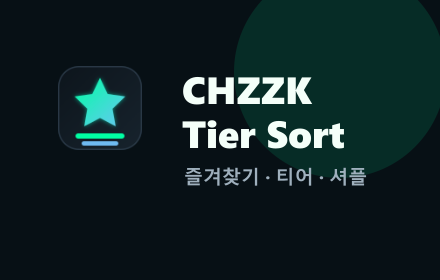
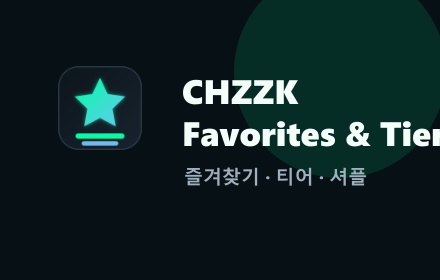
Harden Chrome popup and LNB tier sorting

Changed region(s): [[0.4136, 0.4286, 1.0, 0.5429], [0.4136, 0.2571, 0.7091, 0.3714]]

diff --git a/js/shuffle.js b/js/shuffle.js
@@ -444,7 +444,7 @@ class ShuffleManager {
         this.findChannelsList();
 
       const list = foundList;
-      const allChannelItems = providedItems || this.findChannelItems(list || document);
+      const allChannelItems = providedItems || (list ? this.getSortableChannelItems(list) : this.findChannelItems(document));
 
       window.ChzzkLogger?.info(`🎯 [SHUFFLE] Parameters: list=${!!list}, items=${allChannelItems?.length || 0}, mutationLock=${this.mutationLock}`);
 
@@ -769,7 +769,7 @@ class ShuffleManager {
       window.ChzzkLogger?.shuffle(`🔄 Progressive shuffle: adding ${newChannels.length} new channels`);
 
       // 현재 DOM에 있는 모든 채널 가져오기
-      const currentChannels = this.findChannelItems(list);
+      const currentChannels = this.getSortableChannelItems(list);
       const channelContainers = this.prepareContainers(currentChannels);
 
       // 라이브/오프라인 분리
@@ -888,7 +888,7 @@ class ShuffleManager {
       const { list } = this.findChannelsList();
       if (!list) return;
 
-      const allChannelItems = this.findChannelItems(list);
+      const allChannelItems = this.getSortableChannelItems(list);
       if (allChannelItems.length === 0) return;
 
       const channelContainers = this.prepareContainers(allChannelItems);
@@ -941,11 +941,12 @@ class ShuffleManager {
   getChannelSnapshot() {
     try {
       const { list } = this.findChannelsList();
-      let items = this.findChannelItems(list || document);
+      let items = list ? this.getSortableChannelItems(list) : this.findChannelItems(document);
 
       if (!items.length && window.ChzzkDom?.findChannelsList) {
         const fallback = window.ChzzkDom.findChannelsList(document);
-        items = fallback.items || [];
+        items = fallback.list ? this.getSortableChannelItems(fallback.list) : (fallback.items || []);
+        if (!items.length) items = fallback.items || [];
       }
 
       const seen = new Set();
@@ -998,11 +999,12 @@ class ShuffleManager {
       let { list } = this.findChannelsList();
       if (!list) return false;
 
-      let items = this.findChannelItems(list);
+      let items = this.getSortableChannelItems(list);
       if (!items.length && window.ChzzkDom?.findChannelsList) {
         const fallback = window.ChzzkDom.findChannelsList(document);
         list = fallback.list;
-        items = fallback.items || [];
+        items = fallback.list ? this.getSortableChannelItems(fallback.list) : (fallback.items || []);
+        if (!items.length) items = fallback.items || [];
       }
       if (!items.length) return false;
 
@@ -1164,7 +1166,7 @@ class ShuffleManager {
         return null;
       }
 
-      const currentChannels = this.findChannelItems(list);
+      const currentChannels = this.getSortableChannelItems(list);
       if (currentChannels.length === 0) {
         window.ChzzkLogger?.warn('⚠ [STATE] No channels found for state capture');
         return null;
@@ -1222,7 +1224,7 @@ class ShuffleManager {
         return false;
       }
 
-      const currentChannels = this.findChannelItems(list);
+      const currentChannels = this.getSortableChannelItems(list);
       if (currentChannels.length === 0) {
         window.ChzzkLogger?.warn('⚠ [STATE] No current channels found for state restoration');
         return false;
@@ -1278,6 +1280,11 @@ class ShuffleManager {
           matchedCount++;
         }
       });
+
+      if (matchedCount < state.channelOrder.length) {
+        window.ChzzkLogger?.warn(`⚠ [STATE] Restore skipped: only ${matchedCount}/${state.channelOrder.length} saved channels matched`);
+        return false;
+      }
 
       // 매칭되지 않은 새 채널들은 끝에 추가
       channelMap.forEach(unmatchedChannel => {
@@ -1529,6 +1536,21 @@ class ShuffleManager {
     return Array.from(list.children).filter(child =>
       !!child.querySelector?.('a[href*="/live/"], a[href*="/channel/"]')
     );
+  }
+
+  /**
+   * DOM 재정렬에 안전한 채널 항목만 반환한다.
+   * CHZZK 내부 마크업이 바뀌어 nested navigator/card 요소가 먼저 잡히면
+   * canSafelyReorder()가 직접 자식 수 불일치로 정렬을 거부한다. 실제 이동
+   * 단위는 항상 리스트의 직접 자식 li여야 한다.
+   * @private
+   * @param {Element} list
+   * @returns {Array<Element>}
+   */
+  getSortableChannelItems(list) {
+    const directChildren = this.getDirectChannelChildren(list);
+    if (directChildren.length > 0) return directChildren;
+    return this.findChannelItems(list || document);
   }
 
   /**

diff --git a/tests/lnb-reorder-guard.test.js b/tests/lnb-reorder-guard.test.js
@@ -55,6 +55,16 @@ class FakeElement {
     });
     return result;
   }
+
+  closest(selector) {
+    if (selector !== 'li') return null;
+    let current = this;
+    while (current) {
+      if (current.tagName === 'LI') return current;
+      current = current.parentElement;
+    }
+    return null;
+  }
 }
 
 class FakeFragment {
@@ -198,10 +208,52 @@ assert.equal(shuffle.restoreShuffleState(restoreState), true);
 assert.deepEqual(list.children, [header, alpha, beta, gamma]);
 
 const beforeUnsafeRestore = [...list.children];
-shuffle.findChannelsList = () => ({ list, items: [alpha, beta] });
+const incompleteList = new FakeElement('ul', '_list_incomplete');
+body.appendChild(incompleteList);
+const incompleteHeader = incompleteList.appendChild(new FakeElement('li', '_header'));
+const incompleteAlpha = incompleteList.appendChild(channelLi('alpha'));
+const incompleteBeta = incompleteList.appendChild(channelLi('beta'));
+shuffle.findChannelsList = () => ({ list: incompleteList, items: [incompleteAlpha, incompleteBeta] });
 shuffle.findChannelItems = () => [alpha, beta];
 assert.equal(shuffle.restoreShuffleState(restoreState), false);
 assert.deepEqual(list.children, beforeUnsafeRestore);
 assert.equal(list.children.length, 4);
+assert.deepEqual(incompleteList.children, [incompleteHeader, incompleteAlpha, incompleteBeta]);
+
+const directList = new FakeElement('ul', '_list_direct');
+body.appendChild(directList);
+const directHeader = directList.appendChild(new FakeElement('li', '_header'));
+const directAlpha = directList.appendChild(channelLi('direct-alpha'));
+const directBeta = directList.appendChild(channelLi('direct-beta'));
+const directGamma = directList.appendChild(channelLi('direct-gamma'));
+const nestedAnchors = [directAlpha, directBeta, directGamma].map(item => item.querySelector('a[href*="/live/"], a[href*="/channel/"]'));
+
+global.window.ChzzkPlatform = null;
+global.window.ChzzkFavoriteTierStore = {
+  state: {
+    starred: ['direct-gamma'],
+    tiers: [],
+    assignments: {},
+    tierOrder: {}
+  }
+};
+global.window.ChzzkStar = {
+  isStarred: id => id === 'direct-gamma',
+  extractChannelId: element => {
+    const link = element.querySelector?.('a[href*="/live/"], a[href*="/channel/"]') || (element.tagName === 'A' ? element : null);
+    return link?.href?.split('/').pop() || '';
+  }
+};
+global.window.ChzzkDom = {
+  extractChannel: element => {
+    const link = element.querySelector?.('a[href*="/live/"], a[href*="/channel/"]') || (element.tagName === 'A' ? element : null);
+    const id = link?.href?.split('/').pop() || '';
+    return id ? { id } : null;
+  }
+};
+shuffle.findChannelsList = () => ({ list: directList, items: nestedAnchors });
+shuffle.findChannelItems = () => nestedAnchors;
+assert.equal(shuffle.applyTierSort({ shuffleWithinTiers: false }), true);
+assert.deepEqual(directList.children, [directHeader, directGamma, directAlpha, directBeta]);
 
 console.log('lnb reorder guard passed');

diff --git a/tests/chrome-only-scope.test.js b/tests/chrome-only-scope.test.js
@@ -22,8 +22,8 @@ assert.equal(packageJson.scripts['qa:main:chrome:start'], undefined, 'Do not lau
 assert.equal(packageJson.scripts['qa:main:chrome:plan'], undefined, 'Do not present a separate Chrome profile launch plan as real-use QA');
 assert.match(packageJson.description, /Chrome\./, 'Package description should name Chrome as the product browser');
 assert.doesNotMatch(packageJson.description, /Whale|NAVER Whale/i, 'Package description must not advertise Whale as a supported product');
-assert.equal(manifest.name, 'CHZZK Favorite Tiers', 'Extension name should describe favorite/tier management, not only shuffling');
-assert.equal(manifest.action?.default_title, 'CHZZK Favorite Tiers', 'Chrome toolbar title should match the extension name');
+assert.equal(manifest.name, 'CHZZK Favorites & Tiers', 'Extension name should describe favorite/tier management, not only shuffling');
+assert.equal(manifest.action?.default_title, 'CHZZK Favorites & Tiers', 'Chrome toolbar title should match the extension name');
 
 assert.match(readme, /Chrome-only/i, 'README should state the Chrome-only product scope');
 assert.doesNotMatch(readme, /build:whale|qa:whale:isolated|qa:main:whale|dist\/whale|Whale Store/i, 'README must not instruct managers to build, QA, or release Whale');
@@ -57,5 +57,8 @@ assert.doesNotMatch(storeAssetGenerator, /whale|Whale|WHALE/, 'Store asset gener
 assert.match(storeAssetGenerator, /03-tier-manager\.png/, 'Chrome store screenshots should show in-popup tier management, not Whale sidebar');
 assert.doesNotMatch(mainChromePopupQa, /direct-popup-url-fallback|Target\.createTarget|popup\.html`\s*\}/, 'Main Chrome popup QA must not substitute direct popup URL for the extension action');
 assert.match(mainChromePopupQa, /Real extension action popup did not open/, 'Main Chrome popup QA should fail clearly when the real action popup cannot be opened');
+assert.match(mainChromePopupQa, /requireCdpReady/, 'Main Chrome popup QA should verify the CDP endpoint before claiming main-browser evidence');
+assert.match(mainChromePopupQa, /mainBrowserEvidence:\s*popupOpened/, 'Main Chrome popup QA failures before action.openPopup must not claim main-browser evidence');
+assert.match(mainChromePopupQa, /MAIN_CHROME_POPUP_UNVERIFIED/, 'Main Chrome popup QA should classify pre-popup failures as unverified, not real-use failures');
 
 console.log('chrome-only product scope regression passed');

diff --git a/popup.js b/popup.js
@@ -35,9 +35,17 @@ let isWorking = false;
 document.addEventListener('DOMContentLoaded', async () => {
   browserBadge.textContent = 'Chrome';
   versionText.textContent = `v${platform.runtime?.getManifest?.().version || ''}`;
-  await loadSettings();
-  await hydrateActiveTab();
   setupEvents();
+  try {
+    await loadSettings();
+    await hydrateActiveTab();
+  } catch (error) {
+    setButtonsEnabled(false);
+    setStatus(platform?.isContextInvalidatedError?.(error)
+      ? '확장이 갱신되었습니다. 치지직 탭을 새로고침해 주세요.'
+      : '팝업을 초기화하지 못했습니다. 새로고침을 눌러 다시 연결하세요.');
+    window.ChzzkLogger?.warn?.('[POPUP] Initialization failed', error);
+  }
 });
 
 async function loadSettings() {

diff --git a/tests/popup-a11y.test.js b/tests/popup-a11y.test.js
@@ -95,4 +95,16 @@ assert.match(
   'Popup disabled buttons should expose their reason through the accessible label'
 );
 
+assert.match(
+  popupJs,
+  /setupEvents\(\);\s*try\s*\{[\s\S]*await loadSettings\(\);[\s\S]*await hydrateActiveTab\(\);/,
+  'Popup controls should be bound before async tab/storage hydration can fail'
+);
+
+assert.match(
+  popupJs,
+  /팝업을 초기화하지 못했습니다/,
+  'Popup initialization failures should render a visible recovery status instead of leaving a blank popup'
+);
+
 console.log('popup accessibility regression passed');

diff --git a/popup.html b/popup.html
@@ -2,7 +2,7 @@
 <html lang="ko">
 <head>
   <meta charset="UTF-8">
-  <title>CHZZK Favorite Tiers</title>
+  <title>CHZZK Favorites & Tiers</title>
   <style>
     :root {
       --bg: #0a0f14;
@@ -391,7 +391,7 @@
   <main class="shell screen" id="homeScreen">
     <header class="top">
       <div class="title">
-        <h1>CHZZK Favorite Tiers</h1>
+        <h1>CHZZK Favorites & Tiers</h1>
         <p class="sub">즐겨찾기, 티어, 셔플을 빠르게 적용합니다.</p>
       </div>
       <div class="badge" id="browserBadge">Chrome</div>

diff --git a/sidebar.html b/sidebar.html
@@ -3,7 +3,7 @@
 <head>
   <meta charset="UTF-8">
   <meta name="viewport" content="width=device-width, initial-scale=1">
-  <title>CHZZK Favorite Tiers</title>
+  <title>CHZZK Favorites & Tiers</title>
   <link rel="stylesheet" href="sidebar.css">
 </head>
 <body>

diff --git a/store-assets/listing-copy.ko.md b/store-assets/listing-copy.ko.md
@@ -1,15 +1,15 @@
-# CHZZK Favorite Tiers - 스토어 등록 문구 초안
+# CHZZK Favorites & Tiers - 스토어 등록 문구 초안
 
 ## Chrome Web Store
 
 ### 이름
-CHZZK Favorite Tiers
+CHZZK Favorites & Tiers
 
 ### 짧은 설명
 치지직 팔로잉 스트리머를 즐겨찾기, 티어, 셔플 기준으로 보기 좋게 정렬합니다.
 
 ### 상세 설명
-CHZZK Favorite Tiers는 치지직 팔로잉 사이드바를 자주 보는 사용자에게 필요한 정리 도구입니다. 즐겨찾는 스트리머를 별표로 고정하고, S/A/B/C/D 티어로 분류한 뒤, 내가 정한 우선순서대로 팔로잉 목록을 정렬할 수 있습니다.
+CHZZK Favorites & Tiers는 치지직 팔로잉 사이드바를 자주 보는 사용자에게 필요한 정리 도구입니다. 즐겨찾는 스트리머를 별표로 고정하고, S/A/B/C/D 티어로 분류한 뒤, 내가 정한 우선순서대로 팔로잉 목록을 정렬할 수 있습니다.
 
 주요 기능:
 - 치지직 팔로잉 채널 옆 별표로 즐겨찾기 등록

diff --git a/README.md b/README.md
@@ -1,4 +1,4 @@
-# CHZZK Favorite Tiers
+# CHZZK Favorites & Tiers
 
 Chrome-only CHZZK extension for pinning favorite streamers, sorting the following sidebar by tiers, shuffling within groups, and tracking streamer activity.
 
